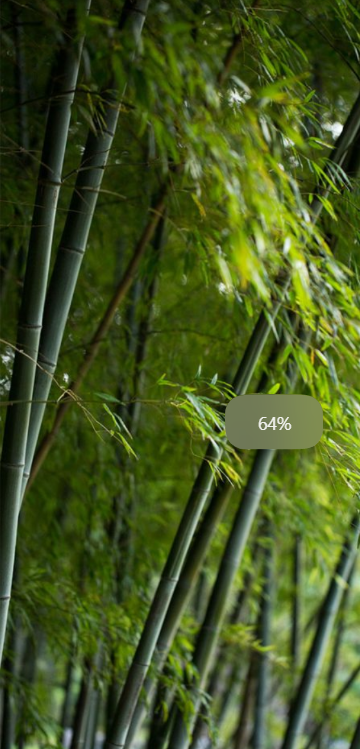
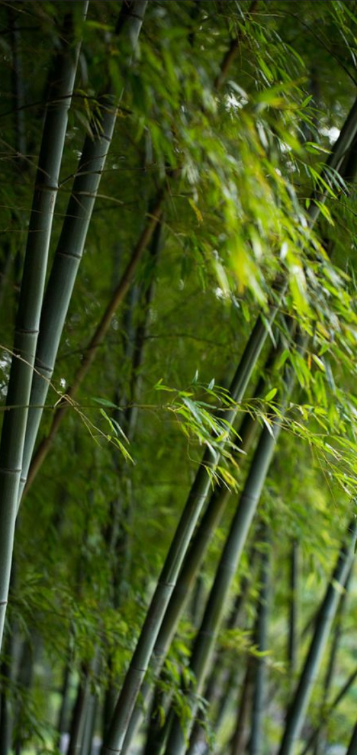
2025-04-07 ivoire-19

diff --git a/app/(public)/(header)/Header.tsx b/app/(public)/(header)/Header.tsx
@@ -336,7 +336,7 @@ export default function Header() {
           --global-content-edge-padding: 20px;
           --global-primary-nav-font-family: 'Poppins', sans-serif;
         }
-        #masthead { position: sticky; z-index: 1100; background: #fff; width: 100%; }
+        #masthead { position: sticky; top: 0; z-index: 1100; background: #fff; width: 100%; }
         .site-main-header-wrap .site-header-row-container-inner { background: var(--global-palette1); transition: all 0.3s; }
         .site-main-header-inner-wrap { min-height: 80px; display: flex; align-items: center; justify-content: space-between; }
         .site-container { max-width: var(--global-content-width); margin: 0 auto; padding: 0 var(--global-content-edge-padding); width: 100%; }

diff --git a/app/(public)/page.tsx b/app/(public)/page.tsx
@@ -1237,7 +1237,8 @@ export default function HomePage() {
           </div>
           <div>
             <img
-              src="https://www.cndonseapaper.com/wp-content/uploads/2025/04/home-OEM-ODM.png"
+              // src="https://www.cndonseapaper.com/wp-content/uploads/2025/04/home-OEM-ODM.png"
+              src="/images/product-bamboo.jpg"
               alt="OEM"
               className="hm-oem-img"
             />
